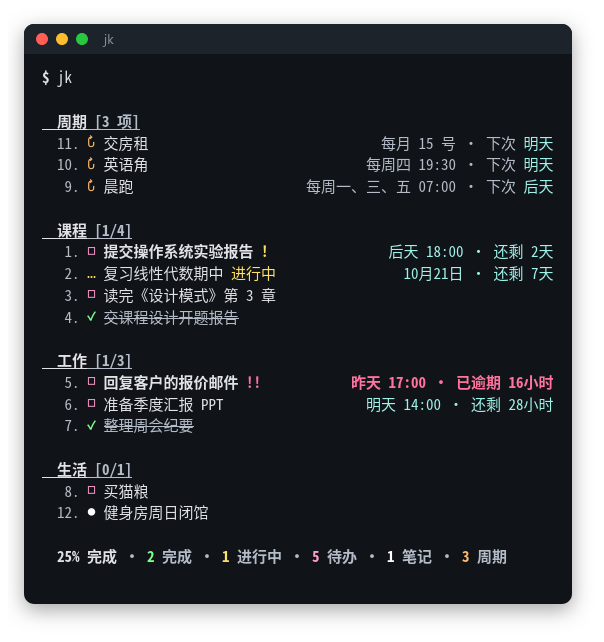
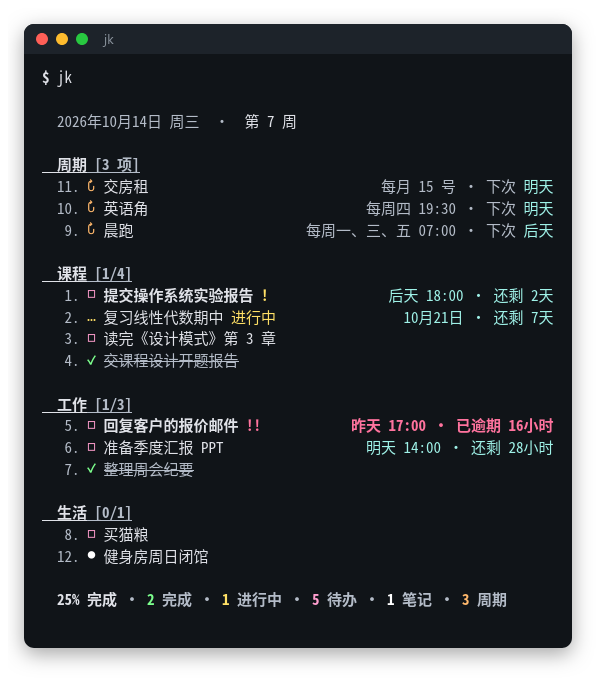
docs(repo): 教学周说明、示例截图更新，0.8.0

diff --git a/tools/gen-demo.py b/tools/gen-demo.py
@@ -16,13 +16,14 @@ import io
 import shutil
 import subprocess
 import tempfile
-from datetime import datetime
+from datetime import date, datetime
 from pathlib import Path
 
 from jk import cli
 from jk.model import DOING, DONE, NOTE, RECUR, Item, Notebook
 from jk.ops import Change, apply, validate
 from jk.render import render_list
+from jk.term import Term
 from jk.theme import make_console
 from jk.timeline import render_timeline
 
@@ -105,7 +106,7 @@ def prompt(console, command: str) -> None:
 def demo_list() -> None:
     console = make_console(record=True, width=WIDTH, file=io.StringIO())
     prompt(console, "jk")
-    render_list(console, demo_books(), NOW)
+    render_list(console, demo_books(), NOW, Term(date(2026, 8, 31)))  # 第 7 周
     save(console, "list", "jk")
 
 

diff --git a/src/jk/__init__.py b/src/jk/__init__.py
@@ -1,3 +1,3 @@
 """Journal Keeper：由 AI 整理的终端记事本 / 任务日志。"""
 
-__version__ = "0.7.0"
+__version__ = "0.8.0"

diff --git a/docs/data-format.md b/docs/data-format.md
@@ -11,7 +11,7 @@
 | `archive/<名字>.md` | 归档，同名对应，格式相同 |
 | `history/<时间戳>/` | 撤销快照：`notebooks/`、`archive/` 的整份拷贝 + `meta.json` |
 | `backups/<时间戳>-v<旧版本>/` | 格式升级前的整份备份 |
-| `state.json` | 运行状态（`ucloud_synced_on` 今天是否已同步、`ucloud_failed_at` 上次失败时间）；不属于数据格式，删掉只会多同步一次 |
+| `state.json` | 运行状态（`ucloud_synced_on` 今天是否已同步、`ucloud_failed_at` 上次失败时间、`term.week1_start` 教学周第一周的周一）；不属于数据格式，删掉只会多同步一次 |
 | `pastes/<时间戳>/` | 输入框的粘贴内容（`1.txt`、`2.png`…），发送后删除；不属于数据格式，不迁移 |
 
 ## 记事本文件

diff --git a/CHANGELOG.md b/CHANGELOG.md
@@ -1,5 +1,11 @@
 # 更新记录
 
+## 0.8.0 — 2026-10-19
+
+- 列表第一行显示日期、星期与教学周（`2026年10月19日 周一  ·  第 8 周`）。
+- 对 AI 说「现在是第 8 周」或「第一周从 9 月 1 日开始」即可设置，程序按日期自动推算当前周次；设置只写 `state.json`，不占撤销记录。
+- 数据格式不变（v3）。
+
 ## 0.7.0 — 2026-10-15
 
 - 每天第一次运行 jk 时自动同步云邮（`jk undo` 除外），只显示一行结果再照常执行命令。
